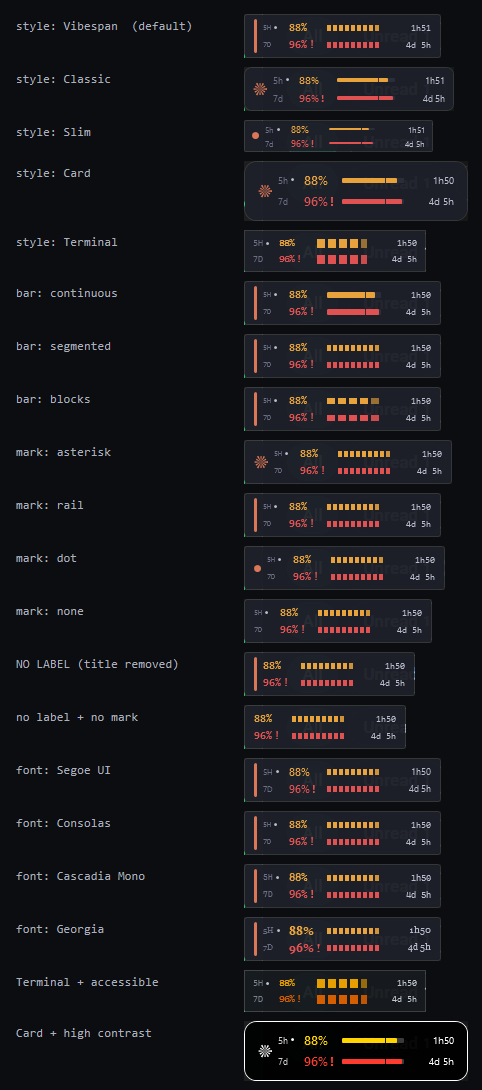
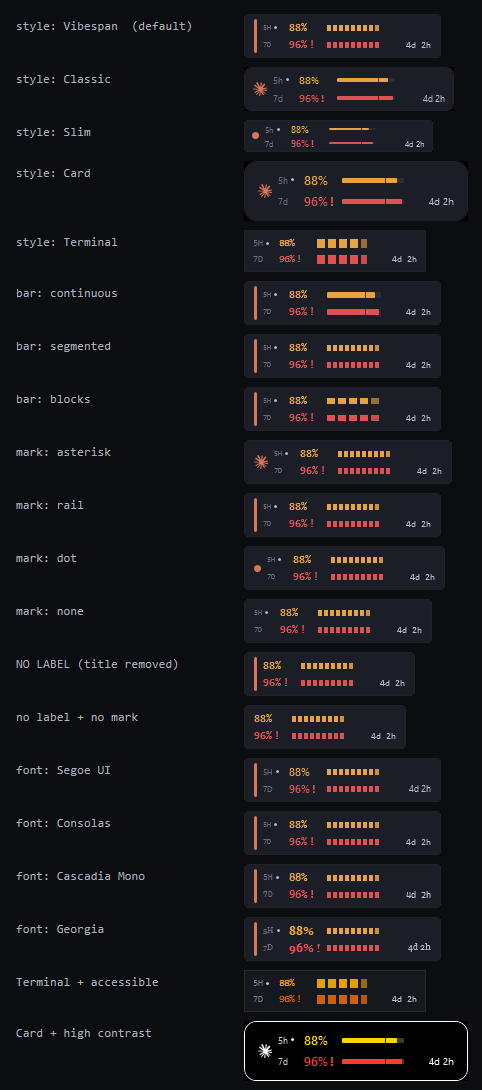
Capture screenshots against a backdrop, and drop the ones that leaked
The menu screenshot had folder names, drive labels and a file listing
legible behind it, and the contact sheets had window text showing faintly
through the gauge. That is not a rendering artefact to touch up afterwards:
the widget is translucent, so whatever was on the desktop is composited
INTO the captured pixels. The only fix is to put something blank behind it
before capturing.

tests/backdrop.ps1 is a black full-screen window run as its own process.
It is TopMost deliberately - a non-topmost backdrop still leaves the console
that launched the harness in front of it, which is exactly what the first
regenerated sheet composited. It self-destructs after 300s so a crashed
harness can never strand a black screen.

Every screenshot taken over a live desktop is deleted rather than kept:
shot-installed, shot-logo, shot-first-run, shot-hero, plus rowcount and
hairline, which were unreferenced test output.

The README hero is now the author's own screenshot, used verbatim rather
than re-encoded - a single metric with the label and mark off, which shows
what the customization is actually for better than a default install does.

diff --git a/README.md b/README.md
@@ -4,7 +4,7 @@ A small always-on-top gauge for Windows showing how much of your Claude usage li
 have burned through, and when they reset — with everything about it configurable from one
 right-click.
 
-<img src="docs/shot-installed.png" alt="The widget showing a 48% five-hour session and 24% weekly usage" width="300">
+<img src="docs/hero.png" alt="The widget reduced to a single percentage and a bar" width="349">
 
 It sits above the taskbar and never disappears behind it, because the executable is built
 with the `uiAccess` privilege — the same one the Magnifier and the on-screen keyboard use.
